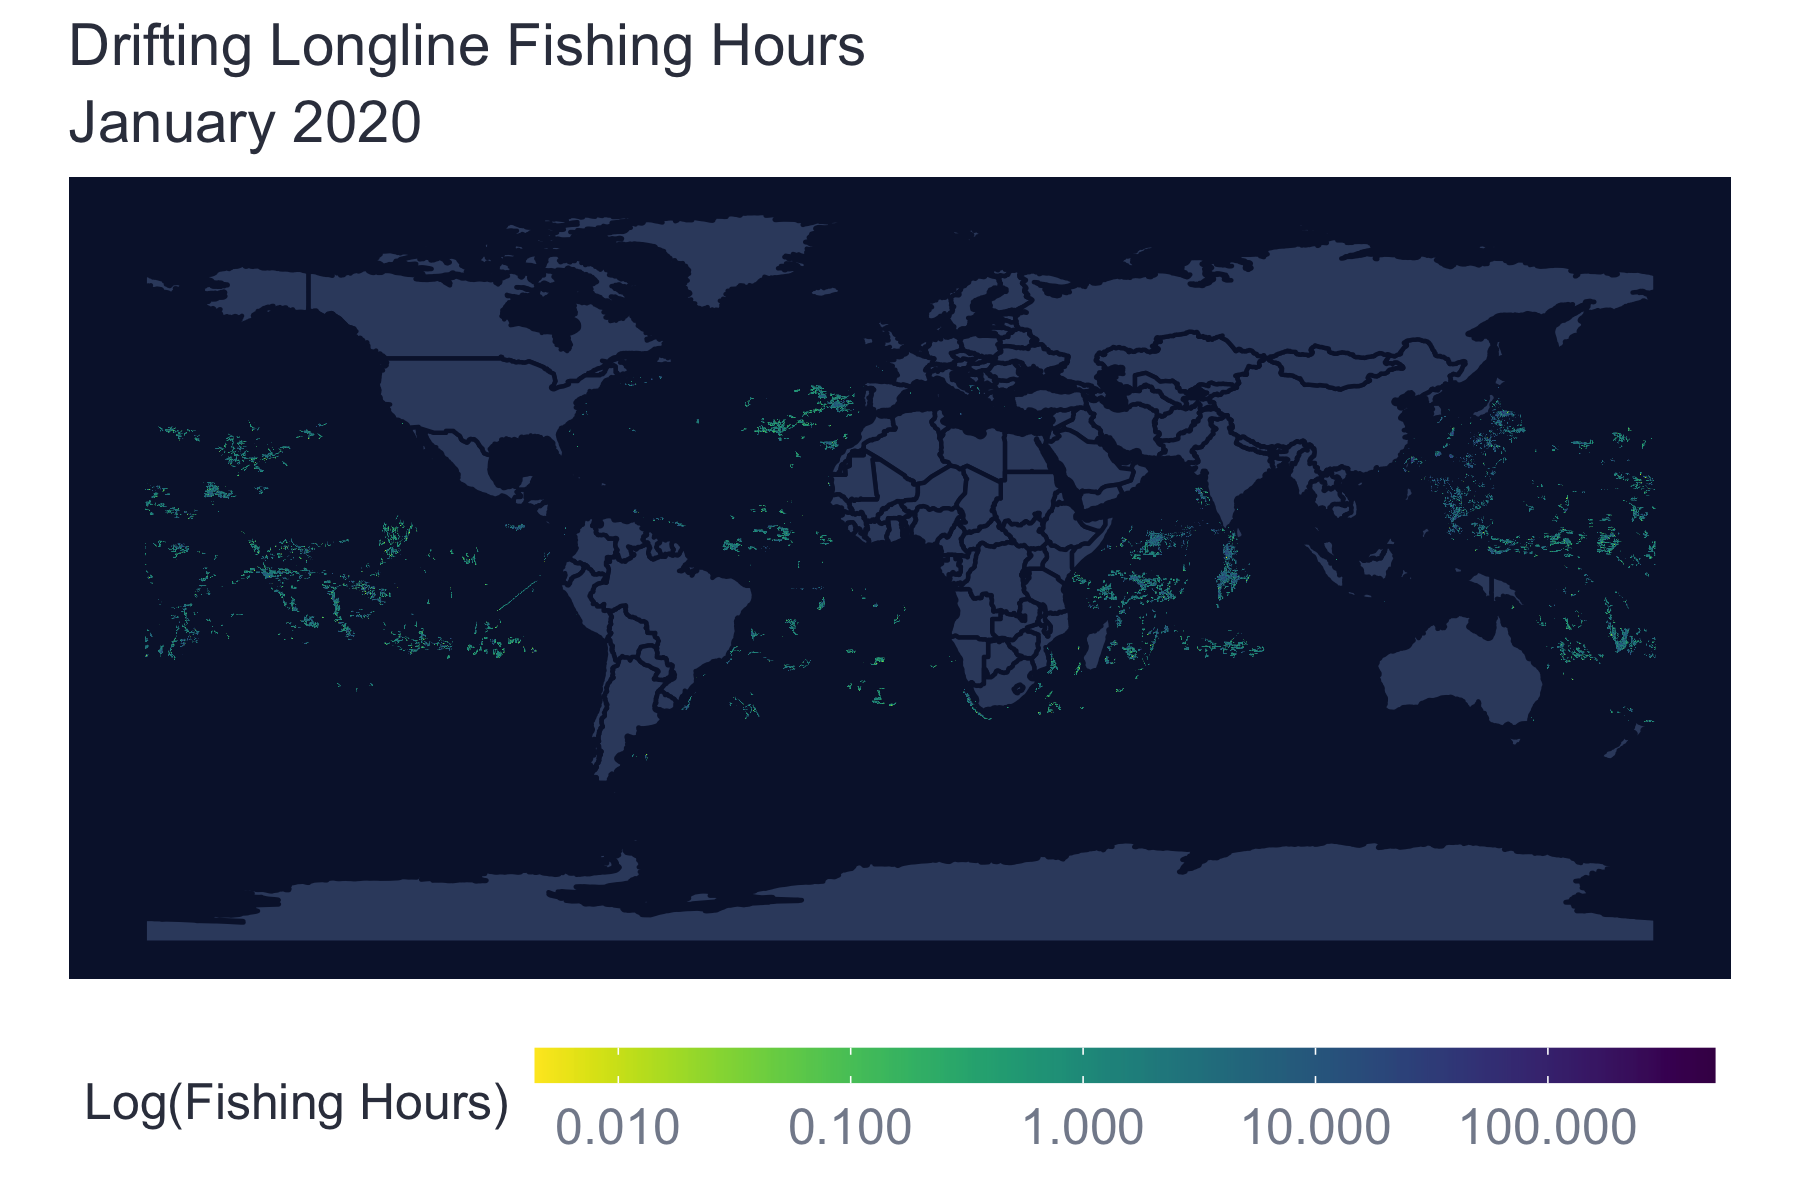
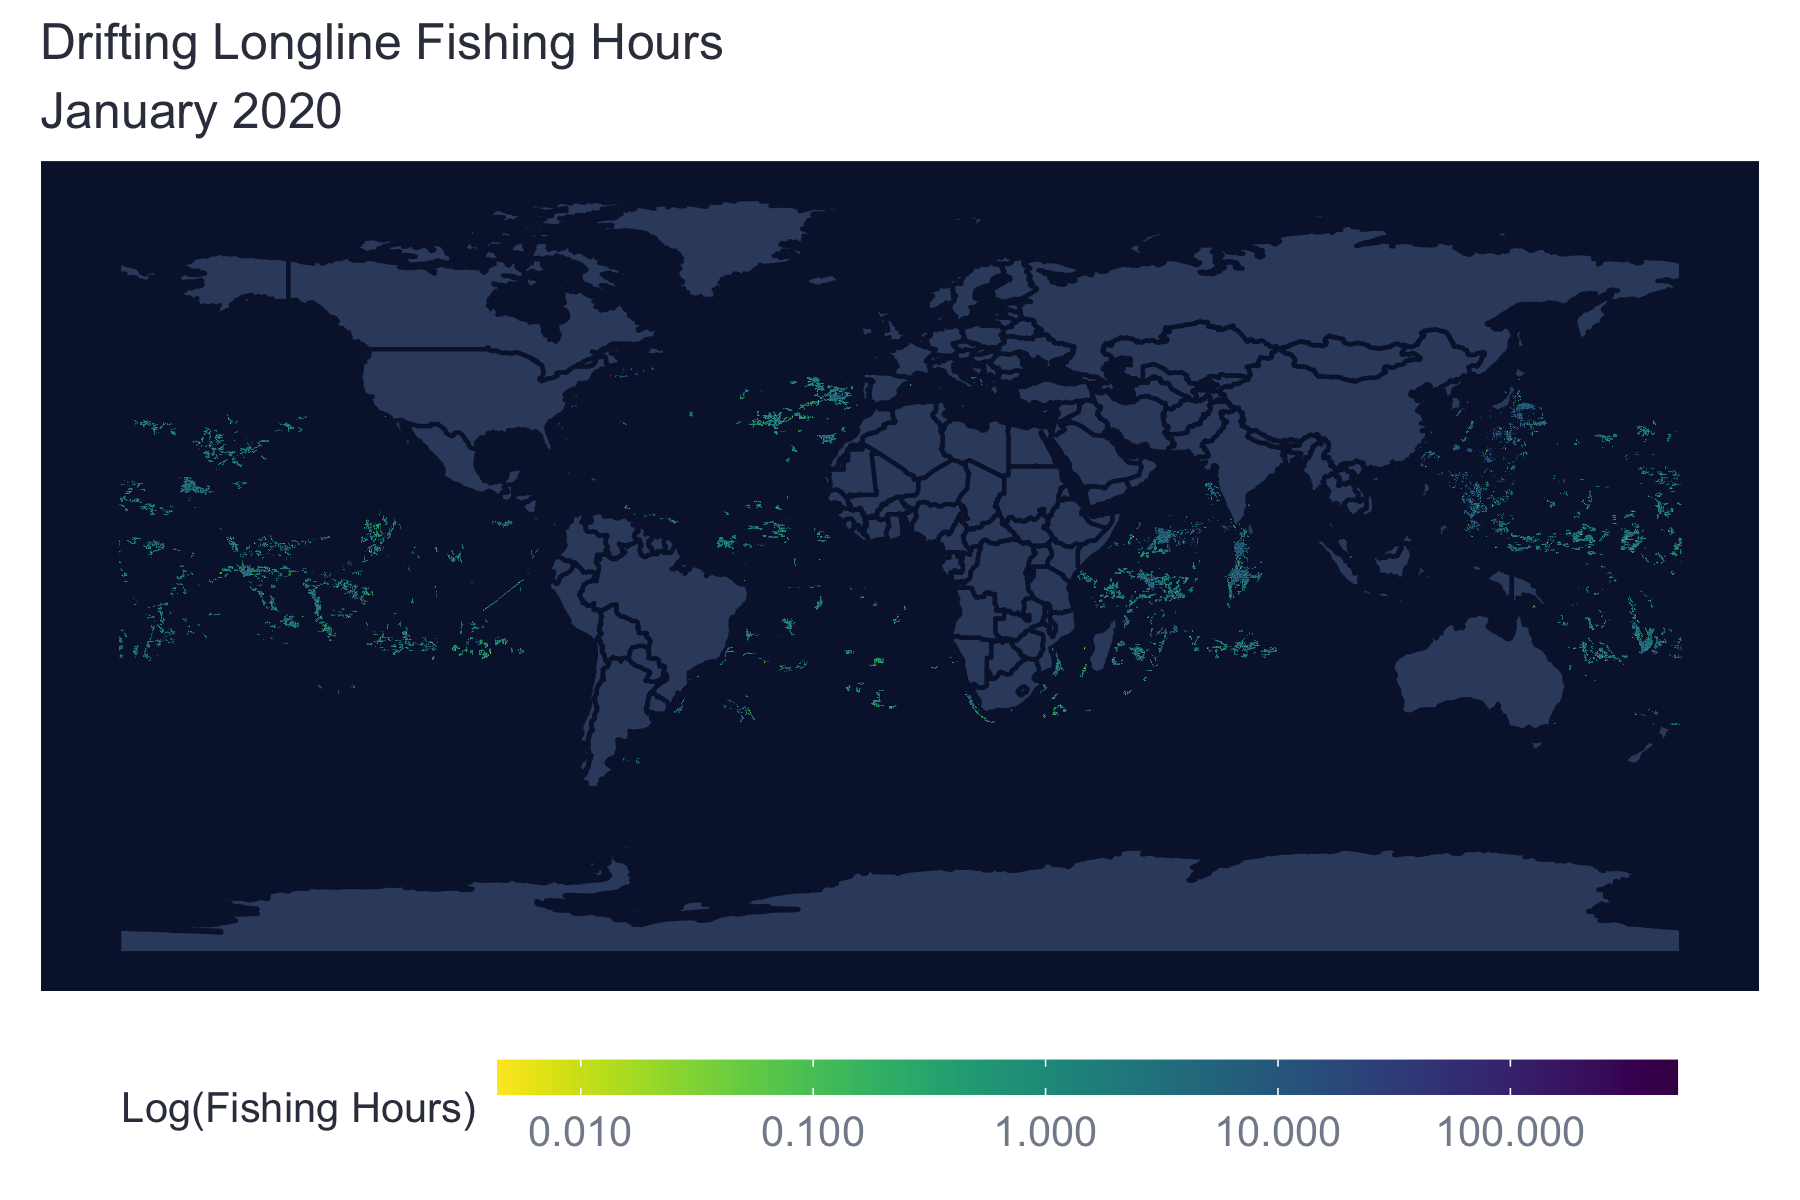
Rebuild with fishing effort map updates

diff --git a/docs/4-3-example-calculate-fishing-hours.html b/docs/4-3-example-calculate-fishing-hours.html
@@ -24,7 +24,7 @@
 <meta name="author" content="" />
 
 
-<meta name="date" content="2021-08-13" />
+<meta name="date" content="2021-08-23" />
 
   <meta name="viewport" content="width=device-width, initial-scale=1" />
   <meta name="apple-mobile-web-app-capable" content="yes" />
@@ -252,61 +252,60 @@ code span.wa { color: #60a0b0; font-weight: bold; font-style: italic; } /* Warni
 <a class="sourceLine" id="cb10-46" data-line-number="46"><span class="st">    hours,</span></a>
 <a class="sourceLine" id="cb10-47" data-line-number="47"><span class="st">    nnet_score</span></a>
 <a class="sourceLine" id="cb10-48" data-line-number="48"><span class="st">  FROM </span></a>
-<a class="sourceLine" id="cb10-49" data-line-number="49"><span class="st">    `emlab-gcp.emlab_test.pipe_v20201001_fishing_subset2020`</span></a>
+<a class="sourceLine" id="cb10-49" data-line-number="49"><span class="st">    `emlab-gcp.emlab_test.pipe_v20201001_fishing_jan2020`</span></a>
 <a class="sourceLine" id="cb10-50" data-line-number="50"><span class="st">  WHERE </span></a>
-<a class="sourceLine" id="cb10-51" data-line-number="51"><span class="st">  # Keep only data for January 2020 </span></a>
-<a class="sourceLine" id="cb10-52" data-line-number="52"><span class="st">    timestamp &lt;= &#39;2020-01-31&#39;</span></a>
-<a class="sourceLine" id="cb10-53" data-line-number="53"><span class="st">  AND seg_id IN(</span></a>
-<a class="sourceLine" id="cb10-54" data-line-number="54"><span class="st">    SELECT </span></a>
-<a class="sourceLine" id="cb10-55" data-line-number="55"><span class="st">      seg_id</span></a>
-<a class="sourceLine" id="cb10-56" data-line-number="56"><span class="st">    FROM </span></a>
-<a class="sourceLine" id="cb10-57" data-line-number="57"><span class="st">      good_segments</span></a>
-<a class="sourceLine" id="cb10-58" data-line-number="58"><span class="st">   )</span></a>
-<a class="sourceLine" id="cb10-59" data-line-number="59"><span class="st">  ),</span></a>
-<a class="sourceLine" id="cb10-60" data-line-number="60"></a>
-<a class="sourceLine" id="cb10-61" data-line-number="61"><span class="st">  ##################################</span></a>
-<a class="sourceLine" id="cb10-62" data-line-number="62"><span class="st">  # Filter fishing positions for </span></a>
-<a class="sourceLine" id="cb10-63" data-line-number="63"><span class="st">  # only our vessels of interest</span></a>
-<a class="sourceLine" id="cb10-64" data-line-number="64"></a>
-<a class="sourceLine" id="cb10-65" data-line-number="65"><span class="st">  fishing_filtered AS (</span></a>
-<a class="sourceLine" id="cb10-66" data-line-number="66"><span class="st">  SELECT </span></a>
-<a class="sourceLine" id="cb10-67" data-line-number="67"><span class="st">    *</span></a>
-<a class="sourceLine" id="cb10-68" data-line-number="68"><span class="st">  FROM </span></a>
-<a class="sourceLine" id="cb10-69" data-line-number="69"><span class="st">    fishing_positions</span></a>
-<a class="sourceLine" id="cb10-70" data-line-number="70"><span class="st">  JOIN longline_vessels_2020</span></a>
-<a class="sourceLine" id="cb10-71" data-line-number="71"><span class="st">  # Only keep positions for fishing vessels active that year</span></a>
-<a class="sourceLine" id="cb10-72" data-line-number="72"><span class="st">  USING(ssvid, year)</span></a>
-<a class="sourceLine" id="cb10-73" data-line-number="73"><span class="st">  ),</span></a>
-<a class="sourceLine" id="cb10-74" data-line-number="74"></a>
-<a class="sourceLine" id="cb10-75" data-line-number="75"><span class="st">  ##################################</span></a>
-<a class="sourceLine" id="cb10-76" data-line-number="76"><span class="st">  # Calculating fishing hours for </span></a>
-<a class="sourceLine" id="cb10-77" data-line-number="77"><span class="st">  # each position </span></a>
-<a class="sourceLine" id="cb10-78" data-line-number="78"></a>
-<a class="sourceLine" id="cb10-79" data-line-number="79"><span class="st">  calc_fishing_hours AS (</span></a>
-<a class="sourceLine" id="cb10-80" data-line-number="80"><span class="st">  SELECT </span></a>
-<a class="sourceLine" id="cb10-81" data-line-number="81"><span class="st">    *,</span></a>
-<a class="sourceLine" id="cb10-82" data-line-number="82"><span class="st">    IF(nnet_score = 1, hours, 0) As fishing_hours</span></a>
-<a class="sourceLine" id="cb10-83" data-line-number="83"><span class="st">  FROM </span></a>
-<a class="sourceLine" id="cb10-84" data-line-number="84"><span class="st">    fishing_filtered</span></a>
-<a class="sourceLine" id="cb10-85" data-line-number="85"><span class="st">  ),</span></a>
-<a class="sourceLine" id="cb10-86" data-line-number="86"></a>
-<a class="sourceLine" id="cb10-87" data-line-number="87"><span class="st">  ##################################</span></a>
-<a class="sourceLine" id="cb10-88" data-line-number="88"><span class="st">  # Calculating fishing hours for </span></a>
-<a class="sourceLine" id="cb10-89" data-line-number="89"><span class="st">  # each position </span></a>
-<a class="sourceLine" id="cb10-90" data-line-number="90"></a>
-<a class="sourceLine" id="cb10-91" data-line-number="91"><span class="st">  fishing_binned AS (</span></a>
-<a class="sourceLine" id="cb10-92" data-line-number="92"><span class="st">  SELECT</span></a>
-<a class="sourceLine" id="cb10-93" data-line-number="93"><span class="st">    # Convert lat/lon to 0.1 degree bins and numeric values</span></a>
-<a class="sourceLine" id="cb10-94" data-line-number="94"><span class="st">    FLOOR(lat * 10) / 10  AS lat_bin,</span></a>
-<a class="sourceLine" id="cb10-95" data-line-number="95"><span class="st">    FLOOR(lon * 10) / 10 AS lon_bin,</span></a>
-<a class="sourceLine" id="cb10-96" data-line-number="96"><span class="st">    SUM(hours) as hours,</span></a>
-<a class="sourceLine" id="cb10-97" data-line-number="97"><span class="st">    SUM(fishing_hours) as fishing_hours</span></a>
-<a class="sourceLine" id="cb10-98" data-line-number="98"><span class="st">  FROM </span></a>
-<a class="sourceLine" id="cb10-99" data-line-number="99"><span class="st">    calc_fishing_hours</span></a>
-<a class="sourceLine" id="cb10-100" data-line-number="100"><span class="st">  GROUP BY lat_bin, lon_bin</span></a>
-<a class="sourceLine" id="cb10-101" data-line-number="101"><span class="st">  )</span></a>
-<a class="sourceLine" id="cb10-102" data-line-number="102"></a>
-<a class="sourceLine" id="cb10-103" data-line-number="103"><span class="st">  SELECT * FROM fishing_binned&quot;</span></a></code></pre></div>
+<a class="sourceLine" id="cb10-51" data-line-number="51"><span class="st">  # Keep only good segments </span></a>
+<a class="sourceLine" id="cb10-52" data-line-number="52"><span class="st">  seg_id IN(</span></a>
+<a class="sourceLine" id="cb10-53" data-line-number="53"><span class="st">    SELECT </span></a>
+<a class="sourceLine" id="cb10-54" data-line-number="54"><span class="st">      seg_id</span></a>
+<a class="sourceLine" id="cb10-55" data-line-number="55"><span class="st">    FROM </span></a>
+<a class="sourceLine" id="cb10-56" data-line-number="56"><span class="st">      good_segments</span></a>
+<a class="sourceLine" id="cb10-57" data-line-number="57"><span class="st">   )</span></a>
+<a class="sourceLine" id="cb10-58" data-line-number="58"><span class="st">  ),</span></a>
+<a class="sourceLine" id="cb10-59" data-line-number="59"></a>
+<a class="sourceLine" id="cb10-60" data-line-number="60"><span class="st">  ##################################</span></a>
+<a class="sourceLine" id="cb10-61" data-line-number="61"><span class="st">  # Filter fishing positions for </span></a>
+<a class="sourceLine" id="cb10-62" data-line-number="62"><span class="st">  # only our vessels of interest</span></a>
+<a class="sourceLine" id="cb10-63" data-line-number="63"></a>
+<a class="sourceLine" id="cb10-64" data-line-number="64"><span class="st">  fishing_filtered AS (</span></a>
+<a class="sourceLine" id="cb10-65" data-line-number="65"><span class="st">  SELECT </span></a>
+<a class="sourceLine" id="cb10-66" data-line-number="66"><span class="st">    *</span></a>
+<a class="sourceLine" id="cb10-67" data-line-number="67"><span class="st">  FROM </span></a>
+<a class="sourceLine" id="cb10-68" data-line-number="68"><span class="st">    fishing_positions</span></a>
+<a class="sourceLine" id="cb10-69" data-line-number="69"><span class="st">  JOIN longline_vessels_2020</span></a>
+<a class="sourceLine" id="cb10-70" data-line-number="70"><span class="st">  # Only keep positions for fishing vessels active that year</span></a>
+<a class="sourceLine" id="cb10-71" data-line-number="71"><span class="st">  USING(ssvid, year)</span></a>
+<a class="sourceLine" id="cb10-72" data-line-number="72"><span class="st">  ),</span></a>
+<a class="sourceLine" id="cb10-73" data-line-number="73"></a>
+<a class="sourceLine" id="cb10-74" data-line-number="74"><span class="st">  ##################################</span></a>
+<a class="sourceLine" id="cb10-75" data-line-number="75"><span class="st">  # Calculating fishing hours for </span></a>
+<a class="sourceLine" id="cb10-76" data-line-number="76"><span class="st">  # each position </span></a>
+<a class="sourceLine" id="cb10-77" data-line-number="77"></a>
+<a class="sourceLine" id="cb10-78" data-line-number="78"><span class="st">  calc_fishing_hours AS (</span></a>
+<a class="sourceLine" id="cb10-79" data-line-number="79"><span class="st">  SELECT </span></a>
+<a class="sourceLine" id="cb10-80" data-line-number="80"><span class="st">    *,</span></a>
+<a class="sourceLine" id="cb10-81" data-line-number="81"><span class="st">    IF(nnet_score = 1, hours, 0) As fishing_hours</span></a>
+<a class="sourceLine" id="cb10-82" data-line-number="82"><span class="st">  FROM </span></a>
+<a class="sourceLine" id="cb10-83" data-line-number="83"><span class="st">    fishing_filtered</span></a>
+<a class="sourceLine" id="cb10-84" data-line-number="84"><span class="st">  ),</span></a>
+<a class="sourceLine" id="cb10-85" data-line-number="85"></a>
+<a class="sourceLine" id="cb10-86" data-line-number="86"><span class="st">  ##################################</span></a>
+<a class="sourceLine" id="cb10-87" data-line-number="87"><span class="st">  # Aggregate fishing hours by</span></a>
+<a class="sourceLine" id="cb10-88" data-line-number="88"><span class="st">  # grid cell </span></a>
+<a class="sourceLine" id="cb10-89" data-line-number="89"></a>
+<a class="sourceLine" id="cb10-90" data-line-number="90"><span class="st">  fishing_binned AS (</span></a>
+<a class="sourceLine" id="cb10-91" data-line-number="91"><span class="st">  SELECT</span></a>
+<a class="sourceLine" id="cb10-92" data-line-number="92"><span class="st">    # Convert lat/lon to 0.1 degree bins</span></a>
+<a class="sourceLine" id="cb10-93" data-line-number="93"><span class="st">    FLOOR(lat * 10) / 10  AS lat_bin,</span></a>
+<a class="sourceLine" id="cb10-94" data-line-number="94"><span class="st">    FLOOR(lon * 10) / 10 AS lon_bin,</span></a>
+<a class="sourceLine" id="cb10-95" data-line-number="95"><span class="st">    SUM(hours) as hours,</span></a>
+<a class="sourceLine" id="cb10-96" data-line-number="96"><span class="st">    SUM(fishing_hours) as fishing_hours</span></a>
+<a class="sourceLine" id="cb10-97" data-line-number="97"><span class="st">  FROM </span></a>
+<a class="sourceLine" id="cb10-98" data-line-number="98"><span class="st">    calc_fishing_hours</span></a>
+<a class="sourceLine" id="cb10-99" data-line-number="99"><span class="st">  GROUP BY lat_bin, lon_bin</span></a>
+<a class="sourceLine" id="cb10-100" data-line-number="100"><span class="st">  )</span></a>
+<a class="sourceLine" id="cb10-101" data-line-number="101"></a>
+<a class="sourceLine" id="cb10-102" data-line-number="102"><span class="st">  SELECT * FROM fishing_binned&quot;</span></a></code></pre></div>
 <p>Run the query and write the results as a table (<code>test_fishing_hours_jan2020_tenthdegree</code>) in BigQuery. This way the query doesn’t have to be re-run every time the SOP gets updated. Instead, we just download the table we created into the working environment. Using the BigQuery console to validate the query it will bill ~12 GB (&lt; $1).</p>
 <div class="sourceCode" id="cb11"><pre class="sourceCode r"><code class="sourceCode r"><a class="sourceLine" id="cb11-1" data-line-number="1"><span class="kw">bq_project_query</span>(<span class="st">&quot;emlab-gcp&quot;</span>, <span class="co">#Billing project</span></a>
 <a class="sourceLine" id="cb11-2" data-line-number="2">                 sql_fishing_hours, <span class="co">#Query string object</span></a>
@@ -357,10 +356,10 @@ code span.wa { color: #60a0b0; font-weight: bold; font-style: italic; } /* Warni
 <a class="sourceLine" id="cb12-36" data-line-number="36">        <span class="dt">legend.key.height =</span> <span class="kw">unit</span>(<span class="dv">3</span>, <span class="st">&quot;mm&quot;</span>), </a>
 <a class="sourceLine" id="cb12-37" data-line-number="37">        <span class="dt">legend.key.width =</span> <span class="kw">unit</span>(<span class="dv">20</span>, <span class="st">&quot;mm&quot;</span>),</a>
 <a class="sourceLine" id="cb12-38" data-line-number="38">        <span class="dt">legend.title.align =</span> <span class="fl">0.5</span>,</a>
-<a class="sourceLine" id="cb12-39" data-line-number="39">        <span class="dt">legend.text =</span> <span class="kw">element_text</span>(<span class="dt">color =</span> <span class="st">&quot;#848b9b&quot;</span>, <span class="dt">size =</span> <span class="dv">12</span>), </a>
-<a class="sourceLine" id="cb12-40" data-line-number="40">        <span class="dt">legend.title =</span> <span class="kw">element_text</span>(<span class="dt">color =</span> <span class="st">&quot;#363c4c&quot;</span>, <span class="dt">size =</span> <span class="dv">12</span>), </a>
-<a class="sourceLine" id="cb12-41" data-line-number="41">        <span class="dt">plot.title =</span> <span class="kw">element_text</span>(<span class="dt">color =</span> <span class="st">&quot;#363c4c&quot;</span>, <span class="dt">size =</span> <span class="dv">14</span>), </a>
-<a class="sourceLine" id="cb12-42" data-line-number="42">        <span class="dt">plot.subtitle =</span> <span class="kw">element_text</span>(<span class="dt">color =</span> <span class="st">&quot;#363c4c&quot;</span>, <span class="dt">size =</span> <span class="dv">14</span>), </a>
+<a class="sourceLine" id="cb12-39" data-line-number="39">        <span class="dt">legend.text =</span> <span class="kw">element_text</span>(<span class="dt">color =</span> <span class="st">&quot;#848b9b&quot;</span>, <span class="dt">size =</span> <span class="dv">10</span>), </a>
+<a class="sourceLine" id="cb12-40" data-line-number="40">        <span class="dt">legend.title =</span> <span class="kw">element_text</span>(<span class="dt">color =</span> <span class="st">&quot;#363c4c&quot;</span>, <span class="dt">size =</span> <span class="dv">10</span>), </a>
+<a class="sourceLine" id="cb12-41" data-line-number="41">        <span class="dt">plot.title =</span> <span class="kw">element_text</span>(<span class="dt">color =</span> <span class="st">&quot;#363c4c&quot;</span>, <span class="dt">size =</span> <span class="dv">12</span>), </a>
+<a class="sourceLine" id="cb12-42" data-line-number="42">        <span class="dt">plot.subtitle =</span> <span class="kw">element_text</span>(<span class="dt">color =</span> <span class="st">&quot;#363c4c&quot;</span>, <span class="dt">size =</span> <span class="dv">12</span>), </a>
 <a class="sourceLine" id="cb12-43" data-line-number="43">        <span class="dt">axis.title =</span> <span class="kw">element_blank</span>(), </a>
 <a class="sourceLine" id="cb12-44" data-line-number="44">        <span class="dt">axis.text =</span> <span class="kw">element_text</span>(<span class="dt">size =</span> <span class="dv">6</span>)) </a></code></pre></div>
 <p><br></p>

diff --git a/docs/index.html b/docs/index.html
@@ -24,7 +24,7 @@
 <meta name="author" content="" />
 
 
-<meta name="date" content="2021-08-13" />
+<meta name="date" content="2021-08-23" />
 
   <meta name="viewport" content="width=device-width, initial-scale=1" />
   <meta name="apple-mobile-web-app-capable" content="yes" />
@@ -181,7 +181,7 @@ code span.wa { color: #60a0b0; font-weight: bold; font-style: italic; } /* Warni
             <section class="normal" id="section-">
 <div id="header">
 <h1 class="title">Global Fishing Watch Data Standard Operating Procedure</h1>
-<p class="date"><em>2021-08-13</em></p>
+<p class="date"><em>2021-08-23</em></p>
 </div>
 <div id="overview" class="section level1 unnumbered">
 <h1>Overview</h1>

diff --git a/docs/1-1-types-of-data.html b/docs/1-1-types-of-data.html
@@ -24,7 +24,7 @@
 <meta name="author" content="" />
 
 
-<meta name="date" content="2021-08-13" />
+<meta name="date" content="2021-08-23" />
 
   <meta name="viewport" content="width=device-width, initial-scale=1" />
   <meta name="apple-mobile-web-app-capable" content="yes" />

diff --git a/docs/1-2-available-data.html b/docs/1-2-available-data.html
@@ -24,7 +24,7 @@
 <meta name="author" content="" />
 
 
-<meta name="date" content="2021-08-13" />
+<meta name="date" content="2021-08-23" />
 
   <meta name="viewport" content="width=device-width, initial-scale=1" />
   <meta name="apple-mobile-web-app-capable" content="yes" />

diff --git a/docs/1-3-data-caution.html b/docs/1-3-data-caution.html
@@ -24,7 +24,7 @@
 <meta name="author" content="" />
 
 
-<meta name="date" content="2021-08-13" />
+<meta name="date" content="2021-08-23" />
 
   <meta name="viewport" content="width=device-width, initial-scale=1" />
   <meta name="apple-mobile-web-app-capable" content="yes" />

diff --git a/docs/1-global-fishing-watch-basics.html b/docs/1-global-fishing-watch-basics.html
@@ -24,7 +24,7 @@
 <meta name="author" content="" />
 
 
-<meta name="date" content="2021-08-13" />
+<meta name="date" content="2021-08-23" />
 
   <meta name="viewport" content="width=device-width, initial-scale=1" />
   <meta name="apple-mobile-web-app-capable" content="yes" />

diff --git a/docs/2-1-bigquery-setup.html b/docs/2-1-bigquery-setup.html
@@ -24,7 +24,7 @@
 <meta name="author" content="" />
 
 
-<meta name="date" content="2021-08-13" />
+<meta name="date" content="2021-08-23" />
 
   <meta name="viewport" content="width=device-width, initial-scale=1" />
   <meta name="apple-mobile-web-app-capable" content="yes" />

diff --git a/docs/2-2-billing.html b/docs/2-2-billing.html
@@ -24,7 +24,7 @@
 <meta name="author" content="" />
 
 
-<meta name="date" content="2021-08-13" />
+<meta name="date" content="2021-08-23" />
 
   <meta name="viewport" content="width=device-width, initial-scale=1" />
   <meta name="apple-mobile-web-app-capable" content="yes" />

diff --git a/docs/2-setup-and-access.html b/docs/2-setup-and-access.html
@@ -24,7 +24,7 @@
 <meta name="author" content="" />
 
 
-<meta name="date" content="2021-08-13" />
+<meta name="date" content="2021-08-23" />
 
   <meta name="viewport" content="width=device-width, initial-scale=1" />
   <meta name="apple-mobile-web-app-capable" content="yes" />

diff --git a/docs/3-1-core-ais-datasets-and-assumptions.html b/docs/3-1-core-ais-datasets-and-assumptions.html
@@ -24,7 +24,7 @@
 <meta name="author" content="" />
 
 
-<meta name="date" content="2021-08-13" />
+<meta name="date" content="2021-08-23" />
 
   <meta name="viewport" content="width=device-width, initial-scale=1" />
   <meta name="apple-mobile-web-app-capable" content="yes" />

diff --git a/docs/3-2-best-tables.html b/docs/3-2-best-tables.html
@@ -24,7 +24,7 @@
 <meta name="author" content="" />
 
 
-<meta name="date" content="2021-08-13" />
+<meta name="date" content="2021-08-23" />
 
   <meta name="viewport" content="width=device-width, initial-scale=1" />
   <meta name="apple-mobile-web-app-capable" content="yes" />

diff --git a/docs/3-3-vms-datasets.html b/docs/3-3-vms-datasets.html
@@ -24,7 +24,7 @@
 <meta name="author" content="" />
 
 
-<meta name="date" content="2021-08-13" />
+<meta name="date" content="2021-08-23" />
 
   <meta name="viewport" content="width=device-width, initial-scale=1" />
   <meta name="apple-mobile-web-app-capable" content="yes" />
